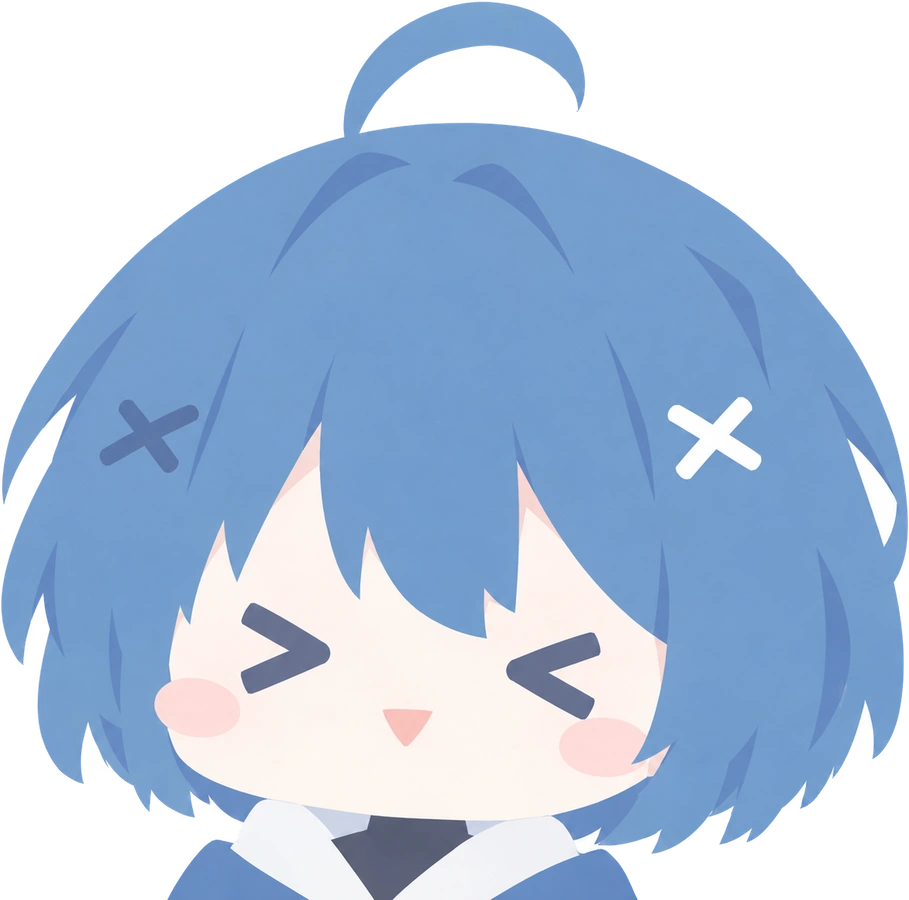
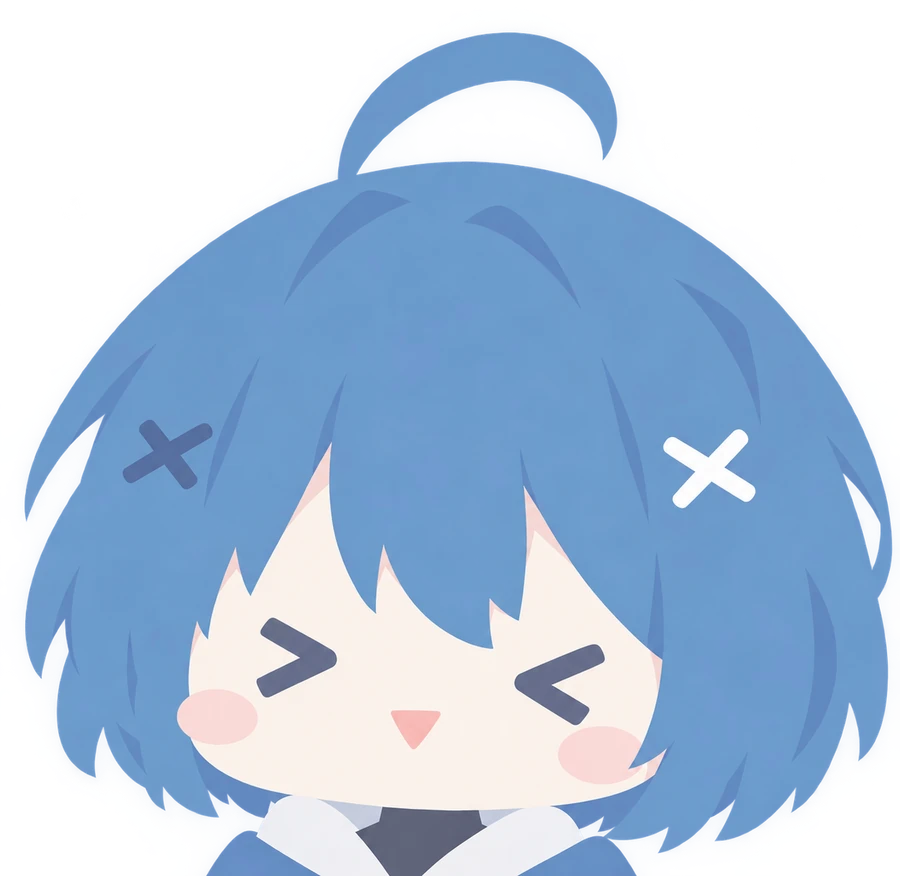
feat(images): replace the busts with the hand-cut transparencies
The owner cut the two chibi busts by hand, which is cleaner than what the
rembg + colour-keying pipeline produced: no white rim and no cyan cast at
the silhouette, checked at 3x over magenta and composited on the window,
page and paper surfaces.

Crop only the fully transparent margin (1254x1254 -> 1254x1221, the art
itself untouched) and encode at 900px wide, which still leaves better
than 2x for the largest render (26rem in the hero). WebP q90 with full
alpha quality: 104KB and 110KB.

Drop bodyViews while here — nothing has referenced it since the character
sheet left /about, and the four files it named are not in public/.

Changed region(s): [[0.0, 0.0, 1.0, 1.0], [0.7156, 0.4315, 0.84, 0.5856], [0.4044, 0.7705, 0.4978, 0.863]]

diff --git a/src/content/character.ts b/src/content/character.ts
@@ -28,16 +28,8 @@ const plate = (
 })
 
 /** 主役の立ち絵。ふだんは正面、触ると笑顔になる */
-export const bust = plate('bust', 'riml', 888, 900)
-export const bustHappy = plate('bust-happy', 'riml（笑顔）', 909, 900)
-
-/** 全身 4 方向 */
-export const bodyViews: readonly Plate[] = [
-  plate('body-front', '正面', 213, 572),
-  plate('body-side', '横', 172, 565),
-  plate('body-back', '背面', 186, 568),
-  plate('body-back45', '斜め後ろ', 169, 556),
-] as const
+export const bust = plate('bust', 'riml', 900, 876)
+export const bustHappy = plate('bust-happy', 'riml（笑顔）', 900, 876)
 
 /** 表情と小物 */
 export const faces: readonly Plate[] = [
